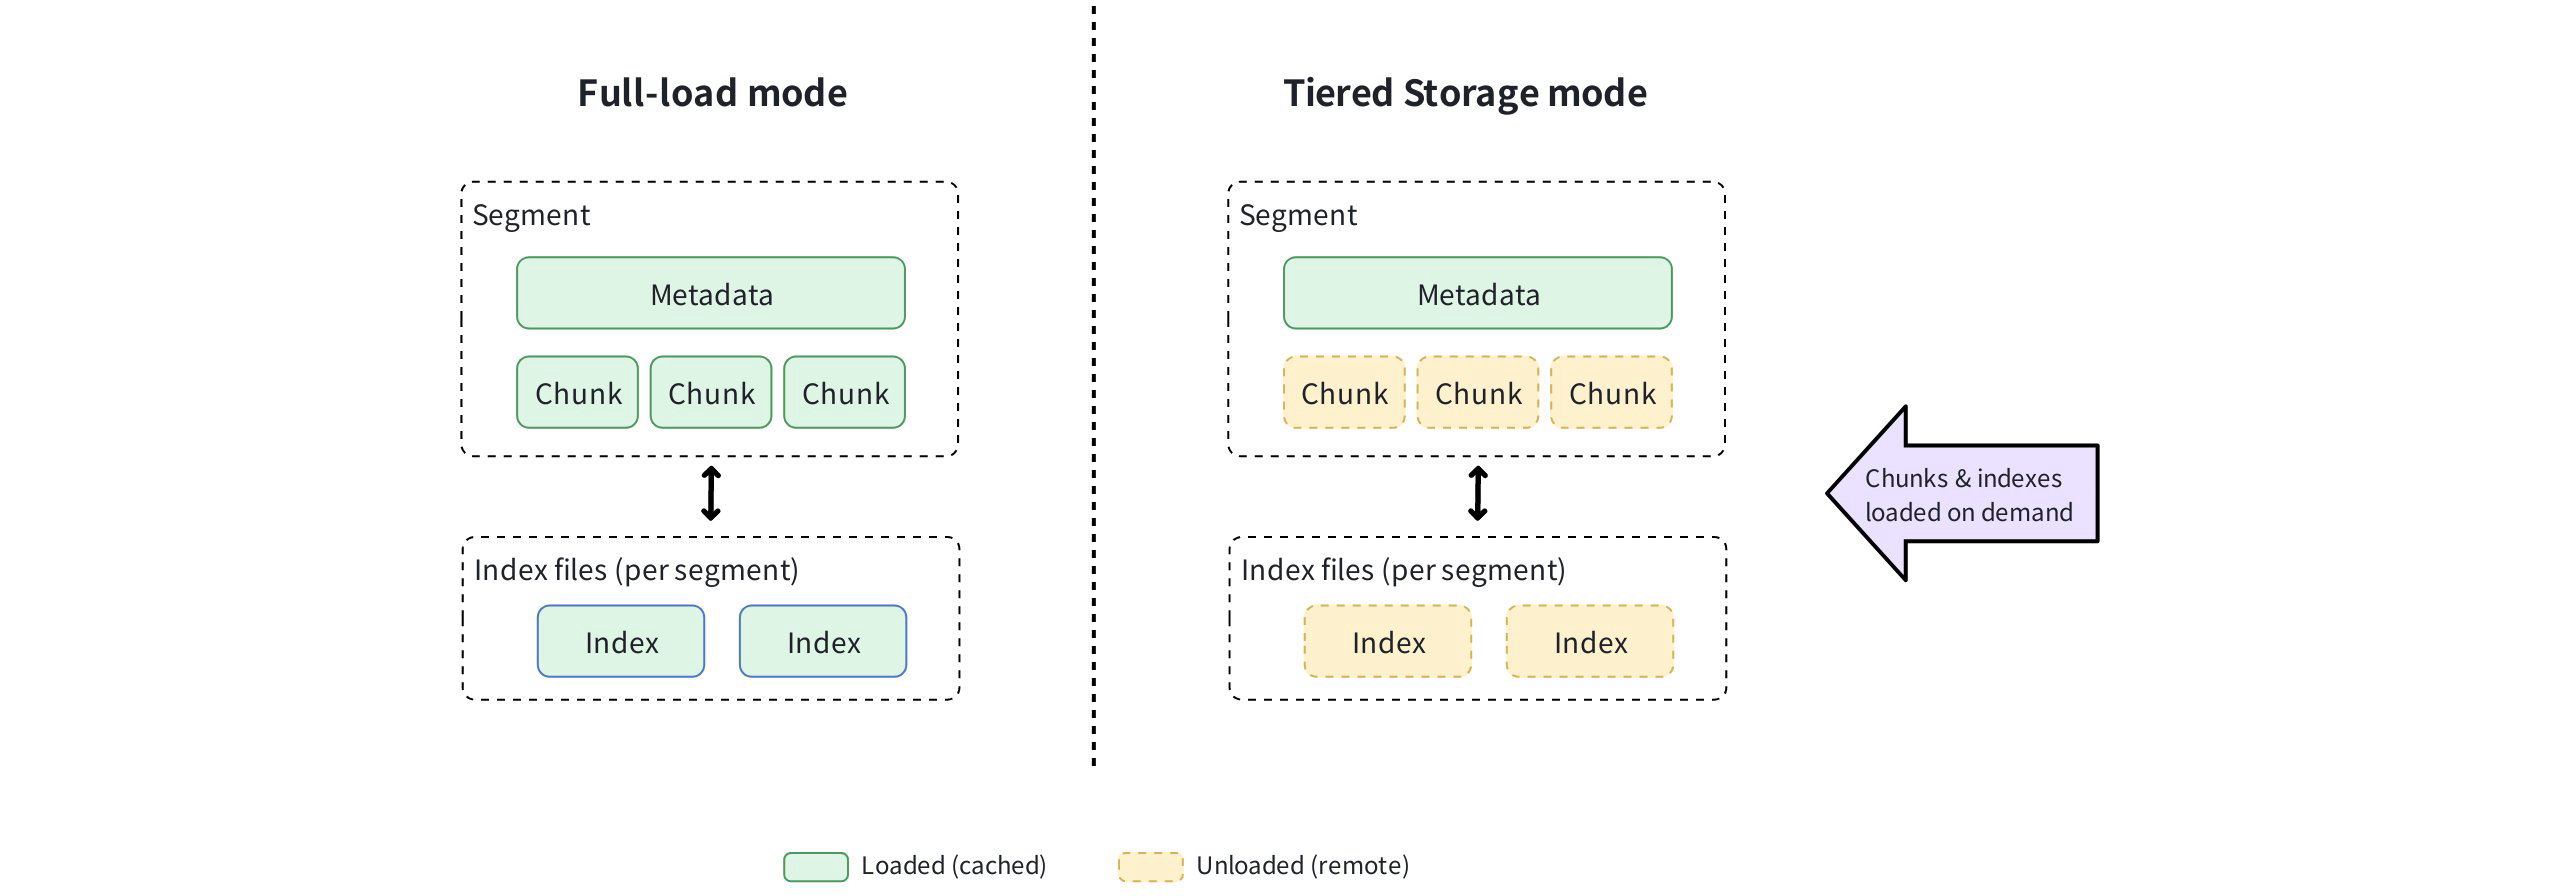
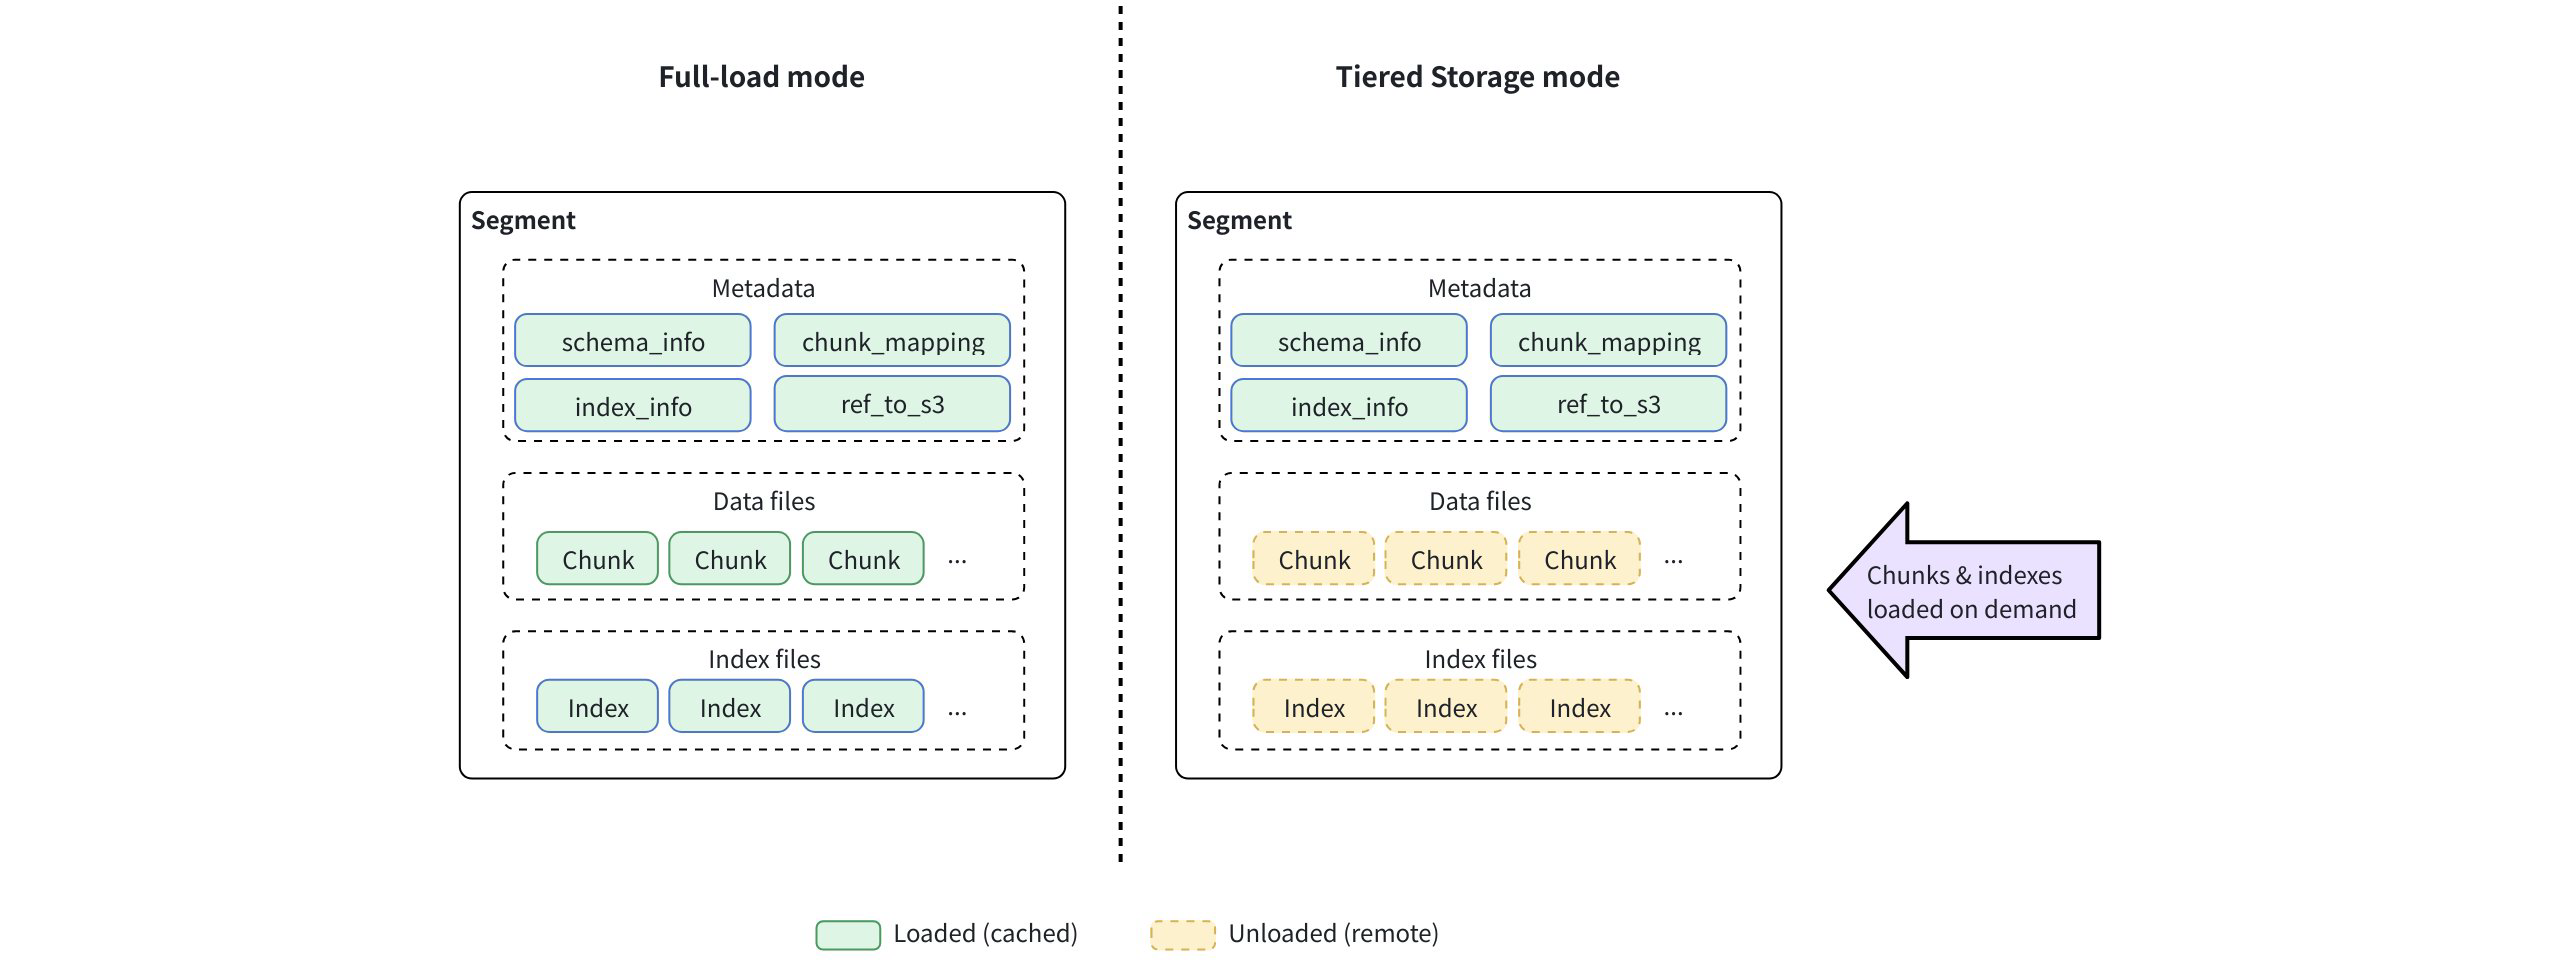
update tiered storage docs

diff --git a/site/en/userGuide/storage-optimization/eviction.md b/site/en/userGuide/storage-optimization/eviction.md
@@ -29,34 +29,36 @@ Milvus supports two complementary eviction modes (**sync** and **async**) that w
    </tr>
    <tr>
      <td><p>Trigger</p></td>
-     <td><p>During query or search when memory/disk usage exceeds internal limits.</p></td>
-     <td><p>Background thread periodically checks usage and triggers eviction when high watermark is exceeded.</p></td>
+     <td><p>Occurs during query or search when memory or disk usage exceeds internal limits.</p></td>
+     <td><p>Triggered by a background thread when usage exceeds the high watermark or when cached data reaches its time-to-live (TTL).</p></td>
    </tr>
    <tr>
      <td><p>Behavior</p></td>
-     <td><p>Query execution pauses while cache is reclaimed. Eviction continues until usage drops below the low watermark.</p></td>
-     <td><p>Runs continuously in the background; removes data when usage exceeds high watermark until it falls below the low watermark. Queries are not blocked.</p></td>
+     <td><p>Query or search operations pause temporarily while the QueryNode reclaims cache space. Eviction continues until usage drops below the low watermark or a timeout occurs. If timeout is reached and insufficient data can be reclaimed, the query or search may fail.</p></td>
+     <td><p>Runs periodically in the background, proactively evicting cached data when usage exceeds the high watermark or when data expires based on TTL. Eviction continues until usage drops below the low watermark. Queries are not blocked.</p></td>
    </tr>
    <tr>
      <td><p>Best For</p></td>
-     <td><p>Workloads that can tolerate brief latency spikes or when async eviction cannot reclaim space fast enough.</p></td>
-     <td><p>Latency-sensitive workloads requiring smooth performance. Ideal for proactive resource management.</p></td>
+     <td><p>Workloads that can tolerate brief latency spikes or temporary pauses during peak usage. Useful when async eviction cannot reclaim space fast enough.</p></td>
+     <td><p>Latency-sensitive workloads that require smooth and predictable query performance. Ideal for proactive resource management.</p></td>
    </tr>
    <tr>
      <td><p>Cautions</p></td>
-     <td><p>Adds latency to ongoing queries. May cause timeouts if insufficient reclaimable data.</p></td>
-     <td><p>Requires properly tuned watermarks. Slight background resource overhead.</p></td>
+     <td><p>Can cause short query delays or timeouts if insufficient evictable data is available.</p></td>
+     <td><p>Requires properly tuned high/low watermarks and TTL settings. Slight overhead from the background thread.</p></td>
    </tr>
    <tr>
      <td><p>Configuration</p></td>
      <td><p>Enabled via <code>evictionEnabled: true</code></p></td>
-     <td><p>Enabled via <code>backgroundEvictionEnabled: true</code> (requires <code>evictionEnabled: true</code>)</p></td>
+     <td><p>Enabled via <code>backgroundEvictionEnabled: true</code> (requires <code>evictionEnabled: true</code> at the same time)</p></td>
    </tr>
 </table>
 
 **Recommended setup**:
 
-Enable both modes for optimal balance. Async eviction manages cache usage proactively, while sync eviction acts as a safety fallback when resources are nearly exhausted.
+- Both eviction modes can be enabled together for optimal balance, provided your workload benefits from Tiered Storage and can tolerate eviction-related fetch latency.
+
+- For performance testing or latency-critical scenarios, consider disabling eviction entirely to avoid network fetch overhead after eviction.
 
 <div class="alert note">
 
@@ -104,7 +106,7 @@ queryNode:
 
 Watermarks define when cache eviction begins and ends for both memory and disk. Each resource type has two thresholds:
 
-- **High watermark**: Async eviction starts when usage exceeds this value.
+- **High watermark**: Eviction starts when usage exceeds this value.
 
 - **Low watermark**: Eviction continues until usage falls below this value.
 
@@ -212,59 +214,3 @@ queryNode:
      <td><p>Use a short TTL (hours) for highly dynamic data; use a long TTL (days) for stable datasets. Set 0 to disable time-based expiration.</p></td>
    </tr>
 </table>
-
-## Configure overcommit ratio
-
-Overcommit ratios define how much of the cache is reserved as evictable, allowing QueryNodes to temporarily exceed normal capacity before eviction intensifies.
-
-<div class="alert note">
-
-This configuration takes effect only when [eviction is enabled](eviction.md#Enable-eviction).
-
-</div>
-
-**Example YAML**:
-
-```yaml
-queryNode:
-  segcore:
-    tieredStorage:
-      evictionEnabled: true
-      # Evictable Memory Cache Ratio: 30%
-      # (30% of physical memory is reserved for storing evictable data)
-      evictableMemoryCacheRatio: 0.3
-      # Evictable Disk Cache Ratio: 30%
-      # (30% of disk capacity is reserved for storing evictable data)
-      evictableDiskCacheRatio: 0.3
-```
-
-<table>
-   <tr>
-     <th><p>Parameter</p></th>
-     <th><p>Type</p></th>
-     <th><p>Range</p></th>
-     <th><p>Description</p></th>
-     <th><p>Recommended use case</p></th>
-   </tr>
-   <tr>
-     <td><p><code>evictableMemoryCacheRatio</code></p></td>
-     <td><p>float</p></td>
-     <td><p>[0.0, 1.0]</p></td>
-     <td><p>Portion of memory cache allocated for evictable data.</p></td>
-     <td><p>Start at <code>0.3</code>. Increase (0.5–0.7) for lower eviction frequency; decrease (0.1–0.2) for higher segment capacity.</p></td>
-   </tr>
-   <tr>
-     <td><p><code>evictableDiskCacheRatio</code></p></td>
-     <td><p>float</p></td>
-     <td><p>[0.0, 1.0]</p></td>
-     <td><p>Portion of disk cache allocated for evictable data.</p></td>
-     <td><p>Use similar ratios to memory unless disk I/O becomes a bottleneck.</p></td>
-   </tr>
-</table>
-
-**Boundary behavior**:
-
-- `1.0`: All cache is evictable — eviction rarely triggers, but fewer segments fit per QueryNode.
-
-- `0.0`: No evictable cache — eviction occurs frequently; more segments fit, but latency may increase.
-

diff --git a/site/en/userGuide/storage-optimization/tiered-storage-overview.md b/site/en/userGuide/storage-optimization/tiered-storage-overview.md
@@ -9,7 +9,7 @@ beta: Milvus 2.6.4+
 
 In Milvus, the traditional *full-load* mode requires each QueryNode to load all data fields and indexes of a [segment](glossary.md#Segment) at initialization, even data that may never be accessed. This ensures immediate data availability but often leads to wasted resources, including high memory usage, heavy disk activity, and significant I/O overhead, especially when handling large-scale datasets.
 
-*Tiered Storage* addresses this challenge by decoupling data caching from segment loading. Instead of loading all data at once, Milvus introduces a caching layer that distinguishes between hot data (cached locally) and cold data (stored remotely). The QueryNode now loads only lightweight *metadata* initially and dynamically pulls or evicts data on demand. This significantly reduces load time, optimizes local resource utilization, and enables QueryNodes to process datasets that far exceed their physical memory or disk capacity.
+*Tiered Storage* addresses this challenge by decoupling data caching from segment loading. Instead of loading all data at once, Milvus introduces a caching layer that distinguishes between hot data (cached locally) and cold data (stored remotely). The QueryNode now loads only lightweight *metadata* initially and dynamically pulls or evicts field data on demand. This significantly reduces load time, optimizes local resource utilization, and enables QueryNodes to process datasets that far exceed their physical memory or disk capacity.
 
 Consider enabling Tiered Storage in scenarios such as:
 
@@ -47,7 +47,7 @@ The diagram below shows these differences.
 
 Under Tiered Storage, the workflow has these phases:
 
-![Load Workflow](../../../../assets/load-workflow.png)
+![Querynode Load Workflow](../../../../assets/querynode-load-workflow.png)
 
 #### Phase 1: Lazy load
 
@@ -59,17 +59,19 @@ Because field data and index files remain in remote storage until first accessed
 
 **Configuration**
 
-Automatically applied when Tiered Storage is enabled. No other manual setting is required.
+Automatically applied when Tiered Storage is enabled. No manual setting is required.
 
 #### Phase 2: Warm up
 
-To reduce the first-hit latency introduced by [lazy load](tiered-storage-overview.md#Phase-1-Lazy-load), Milvus provides a *Warm Up mechanism.
+To reduce the first-hit latency introduced by [lazy load](tiered-storage-overview.md#Phase-1-Lazy-load), Milvus provides a *Warm Up* mechanism.
 
 Before a segment becomes queryable, Milvus can proactively fetch and cache specific fields or indexes from object storage, ensuring that the first query directly hits cached data instead of triggering on-demand loading.
 
+During warmup, fields will be preloaded at the chunk level, while indexes will be preloaded at the segment level.
+
 **Configuration**
 
-Warm Up settings are defined in the Tiered Storage section of **milvus.yaml**. You can enable or disable preloading for each field or index type and specify the preferred strategy. See [Warm Up](warm-up.md) for configuration examples.
+Warm Up settings are defined in the Tiered Storage section of `milvus.yaml`. You can enable or disable preloading for each field or index type and specify the preferred strategy. See [Warm Up](warm-up.md) for detailed configurations.
 
 #### Phase 3: Partial load
 
@@ -85,7 +87,7 @@ Partial load is automatically applied when Tiered Storage is enabled. No manual 
 
 #### Phase 4: Eviction
 
-To maintain healthy resource usage, Milvus automatically releases unused cached data when thresholds are reached.
+To maintain healthy resource usage, Milvus automatically releases unused cached data when specific thresholds are reached.
 
 Eviction follows a [Least Recently Used (LRU)](https://en.wikipedia.org/wiki/Cache_replacement_policies) policy, ensuring that infrequently accessed data is removed first while active data remains in cache.
 
@@ -94,8 +96,6 @@ Eviction is governed by the following configurable items:
 - **Watermarks**: Define memory or disk thresholds that trigger and stop eviction.
 
 - **Cache TTL**: Removes stale cached data after a defined duration of inactivity.
-
-- **Overcommit ratio**: Allows temporary cache oversubscription before aggressive eviction begins, helping absorb short-term workload spikes.
 
 **Configuration**
 
@@ -147,10 +147,6 @@ queryNode:
       
       # Cache TTL (7 days)
       cacheTtl: 604800
-      
-      # Overcommit Ratios
-      evictableMemoryCacheRatio: 0.3
-      evictableDiskCacheRatio: 0.3
 ```
 
 ### Next steps
@@ -185,6 +181,8 @@ Two common causes:
 
 - QueryNode resources are shared with other workloads, so Tiered Storage cannot correctly assess actual available capacity.
 
+To resolve this, we recommend you allocate dedicated resources for QueryNodes.
+
 ### Why do some queries fail under high concurrency?
 
 If too many queries hit hot data at the same time, QueryNode resource limits may still be exceeded. Some threads may fail due to resource reservation timeouts. Retrying after the load decreases, or allocating more resources, can resolve this.
@@ -195,11 +193,5 @@ Possible causes include:
 
 - Frequent queries to cold data, which must be fetched from storage.
 
-- An overcommit ratio that is too high, leading to frequent eviction.
-
 - Watermarks set too close together, causing frequent synchronous eviction.
-
-### Can Tiered Storage handle unlimited data by overcommitting cache?
-
-No. Overcommit ratios allow QueryNodes to work with more segments than physical memory permits, but excessively high ratios can lead to frequent eviction, cache thrashing, or query failures.
 

diff --git a/site/en/userGuide/storage-optimization/warm-up.md b/site/en/userGuide/storage-optimization/warm-up.md
@@ -1,13 +1,13 @@
 ---
 id: warm-up.md
 title: "Warm Up"
-summary: "In Milvus, Warm Up complements Tiered Storage by alleviating first-hit latency that occurs when cold data is accessed for the first time. Once configured, Warm Up preloads selected fields or indexes into the cache before a segment becomes queryable, ensuring that frequently accessed data is available immediately after loading."
+summary: "In Milvus, Warm Up complements Tiered Storage by alleviating first-hit latency that occurs when cold data is accessed for the first time. Once configured, Warm Up preloads selected types of fields or indexes into the cache before a segment becomes queryable, ensuring that frequently accessed data is available immediately after loading."
 beta: Milvus 2.6.4+
 ---
 
 # Warm Up
 
-In Milvus, **Warm Up** complements Tiered Storage by alleviating first-hit latency that occurs when cold data is accessed for the first time. Once configured, Warm Up preloads selected fields or indexes into the cache before a segment becomes queryable, ensuring that frequently accessed data is available immediately after loading.
+In Milvus, **Warm Up** complements Tiered Storage by alleviating first-hit latency that occurs when cold data is accessed for the first time. Once configured, Warm Up preloads selected types of fields or indexes into the cache before a segment becomes queryable, ensuring that frequently accessed data is available immediately after loading.
 
 ## Why warm up
 
@@ -36,7 +36,7 @@ Warm Up is controlled under `queryNode.segcore.tieredStorage.warmup` in `milvus.
      <th><p>Typical scenario</p></th>
    </tr>
    <tr>
-     <td><p><code>sync</code> (default)</p></td>
+     <td><p><code>sync</code></p></td>
      <td><p>Preload before the segment becomes queryable. Load time increases slightly, but the first query incurs no latency.</p></td>
      <td><p>Use for performance-critical data that must be immediately available, such as high-frequency scalar indexes or key vector indexes used in search.</p></td>
    </tr>
@@ -56,9 +56,9 @@ queryNode:
       warmup:
         # options: sync, disable.
         # Specifies the timing for warming up the Tiered Storage cache.
-        # - "sync": data will be loaded into the cache before a segment is considered loaded.
-        # - "disable": data will not be proactively loaded into the cache, and loaded only if needed by search/query tasks.
-        # Defaults to "sync", except for vector field which defaults to "disable".
+        # - `sync`: data will be loaded into the cache before a segment is considered loaded.
+        # - `disable`: data will not be proactively loaded into the cache, and loaded only if needed by search/query tasks.
+        # Defaults to `sync`, except for vector field which defaults to `disable`.
         scalarField: sync
         scalarIndex: sync
         vectorField: disable # cache warmup for vector field raw data is by default disabled.
